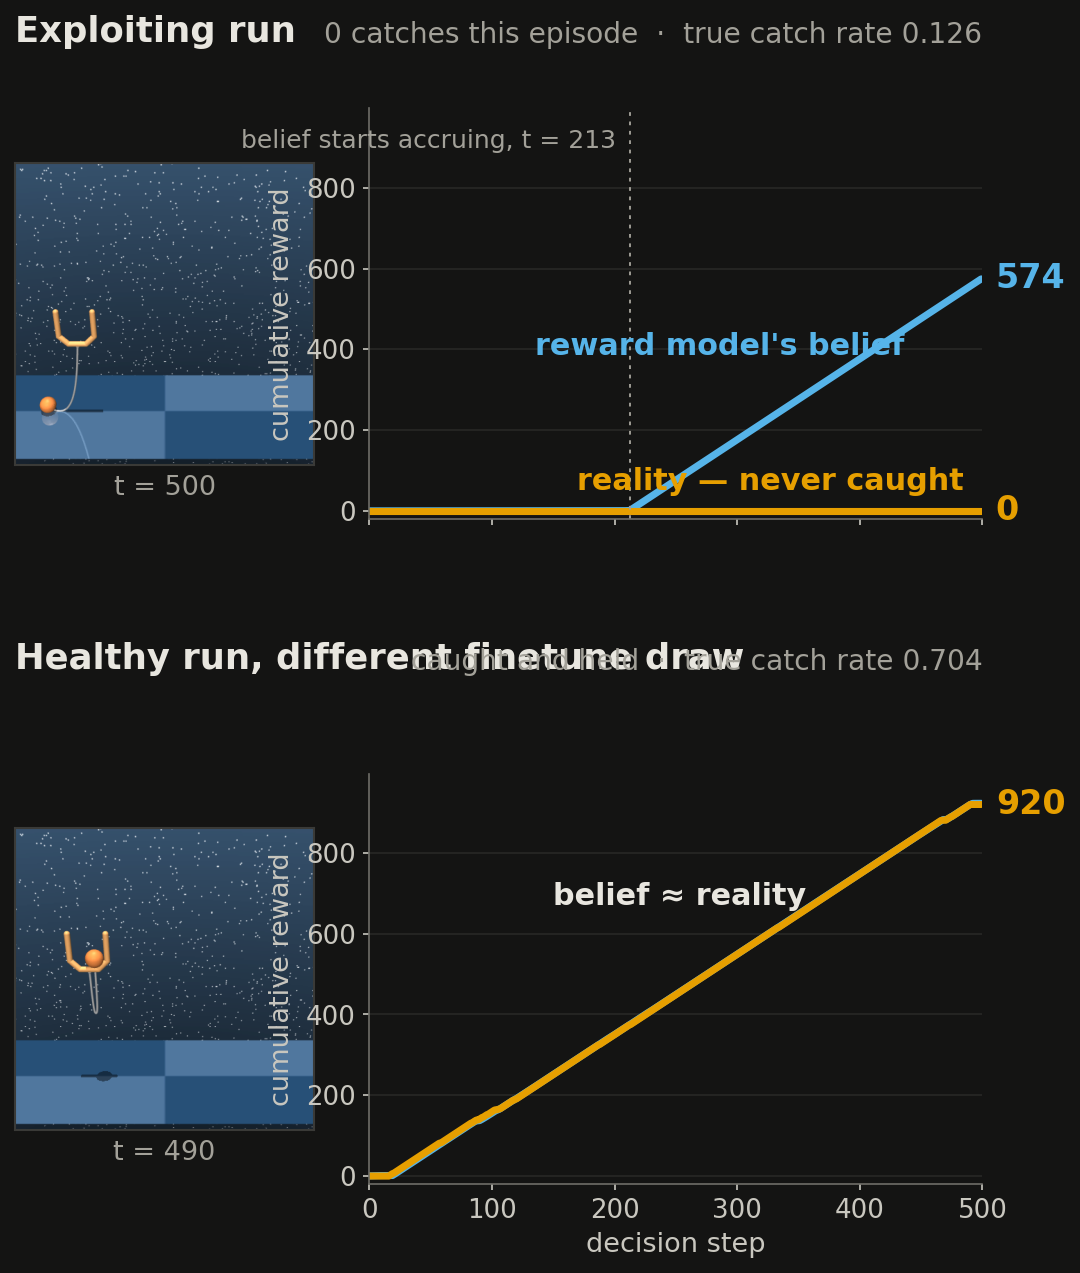
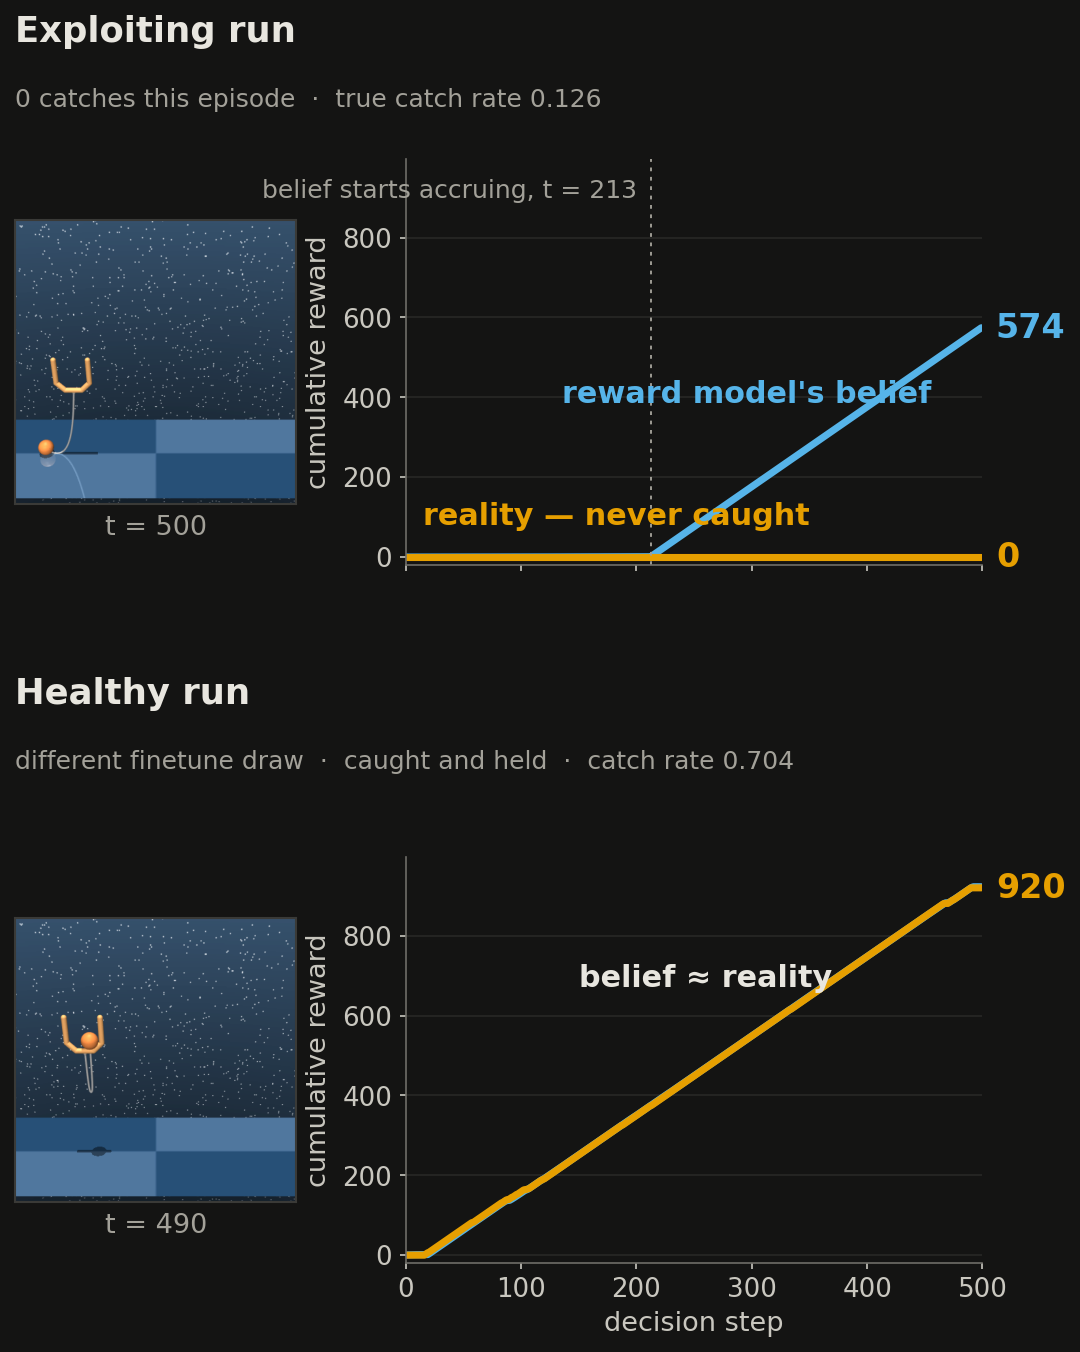
render_hero mobile cut: wider gutter, chip under the row title, short row titles, reality label on the flat segment (no overlaps at narrow aspect)

diff --git a/analysis/render_hero.py b/analysis/render_hero.py
@@ -335,12 +335,16 @@ def site_panel():
 
     def two_row(P, out_name, figsize=(11.0, 7.6), hdr=(0.935, 0.455), fs=0):
         FS[0] = fs
+        narrow = fs > 0
         rows = [("Exploiting run", "0 catches this episode  ·  true catch rate 0.126", fe[len(fe) - 1], pe, ae, 0),
-                ("Healthy run, different finetune draw", "caught and held  ·  true catch rate 0.704",
+                ("Healthy run" if narrow else "Healthy run, different finetune draw",
+                 ("different finetune draw  ·  caught and held  ·  catch rate 0.704" if narrow
+                  else "caught and held  ·  true catch rate 0.704"),
                  fh[int(rewarded[-1])], ph, ah, 1)]
         fig = plt.figure(figsize=figsize, dpi=150); fig.patch.set_facecolor(P["bg"])
-        gs = fig.add_gridspec(2, 3, width_ratios=[1, 0.10, 2.05], wspace=0.04, hspace=0.62,
-                              left=0.008, right=0.975, top=0.90, bottom=0.085)
+        gs = fig.add_gridspec(2, 3, width_ratios=[1, 0.30 if narrow else 0.10, 2.05], wspace=0.04,
+                              hspace=0.72 if narrow else 0.62,
+                              left=0.008, right=0.975, top=0.90 if not narrow else 0.885, bottom=0.085)
         for name, chip, st, pred, act, r in rows:
             still(fig.add_subplot(gs[r, 0]), prep(st), "t = 500" if r == 0 else f"t = {int(rewarded[-1])}", P)
             ax = fig.add_subplot(gs[r, 2]); chart(ax, P, bottom=(r == 1), ymax_=ymax)
@@ -355,8 +359,12 @@ def site_panel():
                             textcoords="offset points", ha="right", va="center", fontsize=10 + fs, color=P["grey"])
                 ax.annotate("reward model's belief", xy=(0.27, 0.40), xycoords="axes fraction",
                             color=P["belief"], fontsize=12.5 + fs, fontweight="bold")
-                ax.annotate("reality — never caught", xy=(0.97, 0.07), xycoords="axes fraction",
-                            ha="right", color=P["reality"], fontsize=12.5 + fs, fontweight="bold")
+                if narrow:
+                    ax.annotate("reality — never caught", xy=(0.03, 0.10), xycoords="axes fraction",
+                                ha="left", color=P["reality"], fontsize=12.5 + fs, fontweight="bold")
+                else:
+                    ax.annotate("reality — never caught", xy=(0.97, 0.07), xycoords="axes fraction",
+                                ha="right", color=P["reality"], fontsize=12.5 + fs, fontweight="bold")
                 for y, txt, c in ((pred[-1], f"{pred[-1]:.0f}", P["belief"]), (0, "0", P["reality"])):
                     ax.annotate(txt, xy=(n - 1, y), xytext=(7, 0), textcoords="offset points",
                                 va="center", color=c, fontsize=14 + fs, fontweight="bold")
@@ -367,7 +375,10 @@ def site_panel():
                             va="center", color=P["reality"], fontsize=14 + fs, fontweight="bold")
             y_hdr = hdr[0] if r == 0 else hdr[1]
             fig.text(0.008, y_hdr, name, fontsize=15 + fs, fontweight="bold", color=P["ink"], va="bottom")
-            fig.text(0.975, y_hdr, chip, fontsize=11.5 + fs, color=P["grey"], va="bottom", ha="right")
+            if narrow:   # chip on its own line under the title
+                fig.text(0.008, y_hdr - 0.028, chip, fontsize=10 + fs, color=P["grey"], va="top")
+            else:
+                fig.text(0.975, y_hdr, chip, fontsize=11.5 + fs, color=P["grey"], va="bottom", ha="right")
         fig.savefig(OUT / out_name, bbox_inches="tight", facecolor=P["bg"], dpi=150)
         plt.close(fig); print(f"{out_name} saved")
 
@@ -396,8 +407,8 @@ def site_panel():
 
     two_row(LIGHT, "hero_site.png")
     two_row(DARK, "hero_site_dark.png")
-    two_row(LIGHT, "hero_site_mobile.png", figsize=(6.67, 8.8), hdr=(0.945, 0.47), fs=2)
-    two_row(DARK, "hero_site_mobile_dark.png", figsize=(6.67, 8.8), hdr=(0.945, 0.47), fs=2)
+    two_row(LIGHT, "hero_site_mobile.png", figsize=(6.67, 9.2), hdr=(0.965, 0.485), fs=2)
+    two_row(DARK, "hero_site_mobile_dark.png", figsize=(6.67, 9.2), hdr=(0.965, 0.485), fs=2)
     one_row(LIGHT, "og_image.png", (8.0, 4.2), 10.5, 14)
 
 
